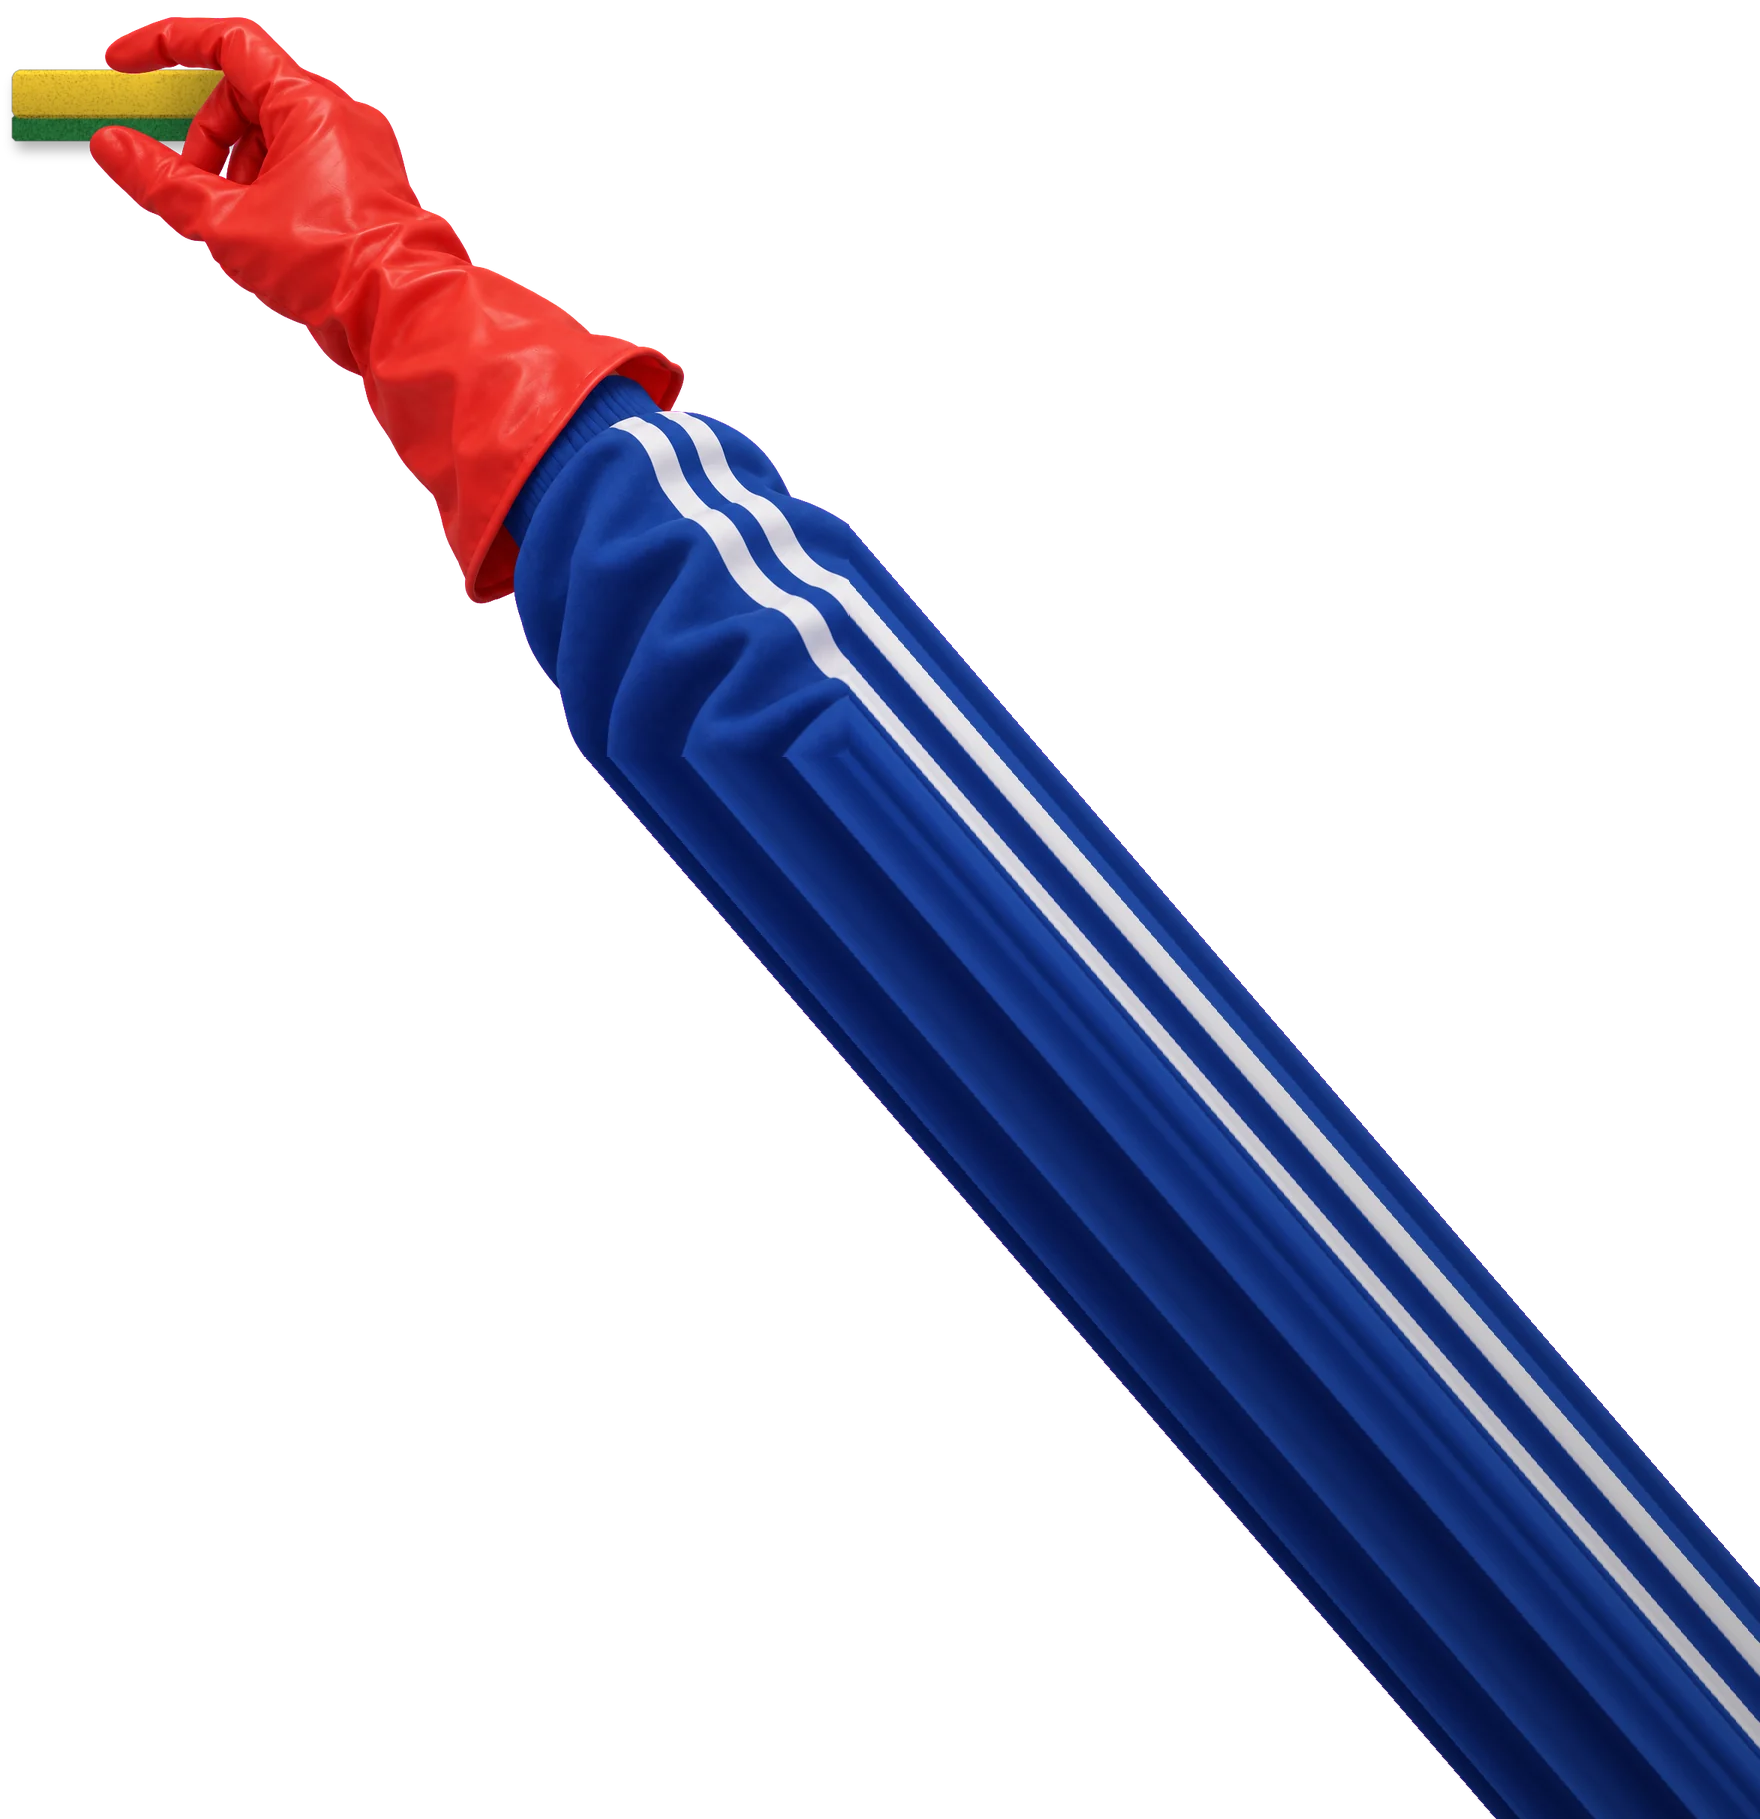
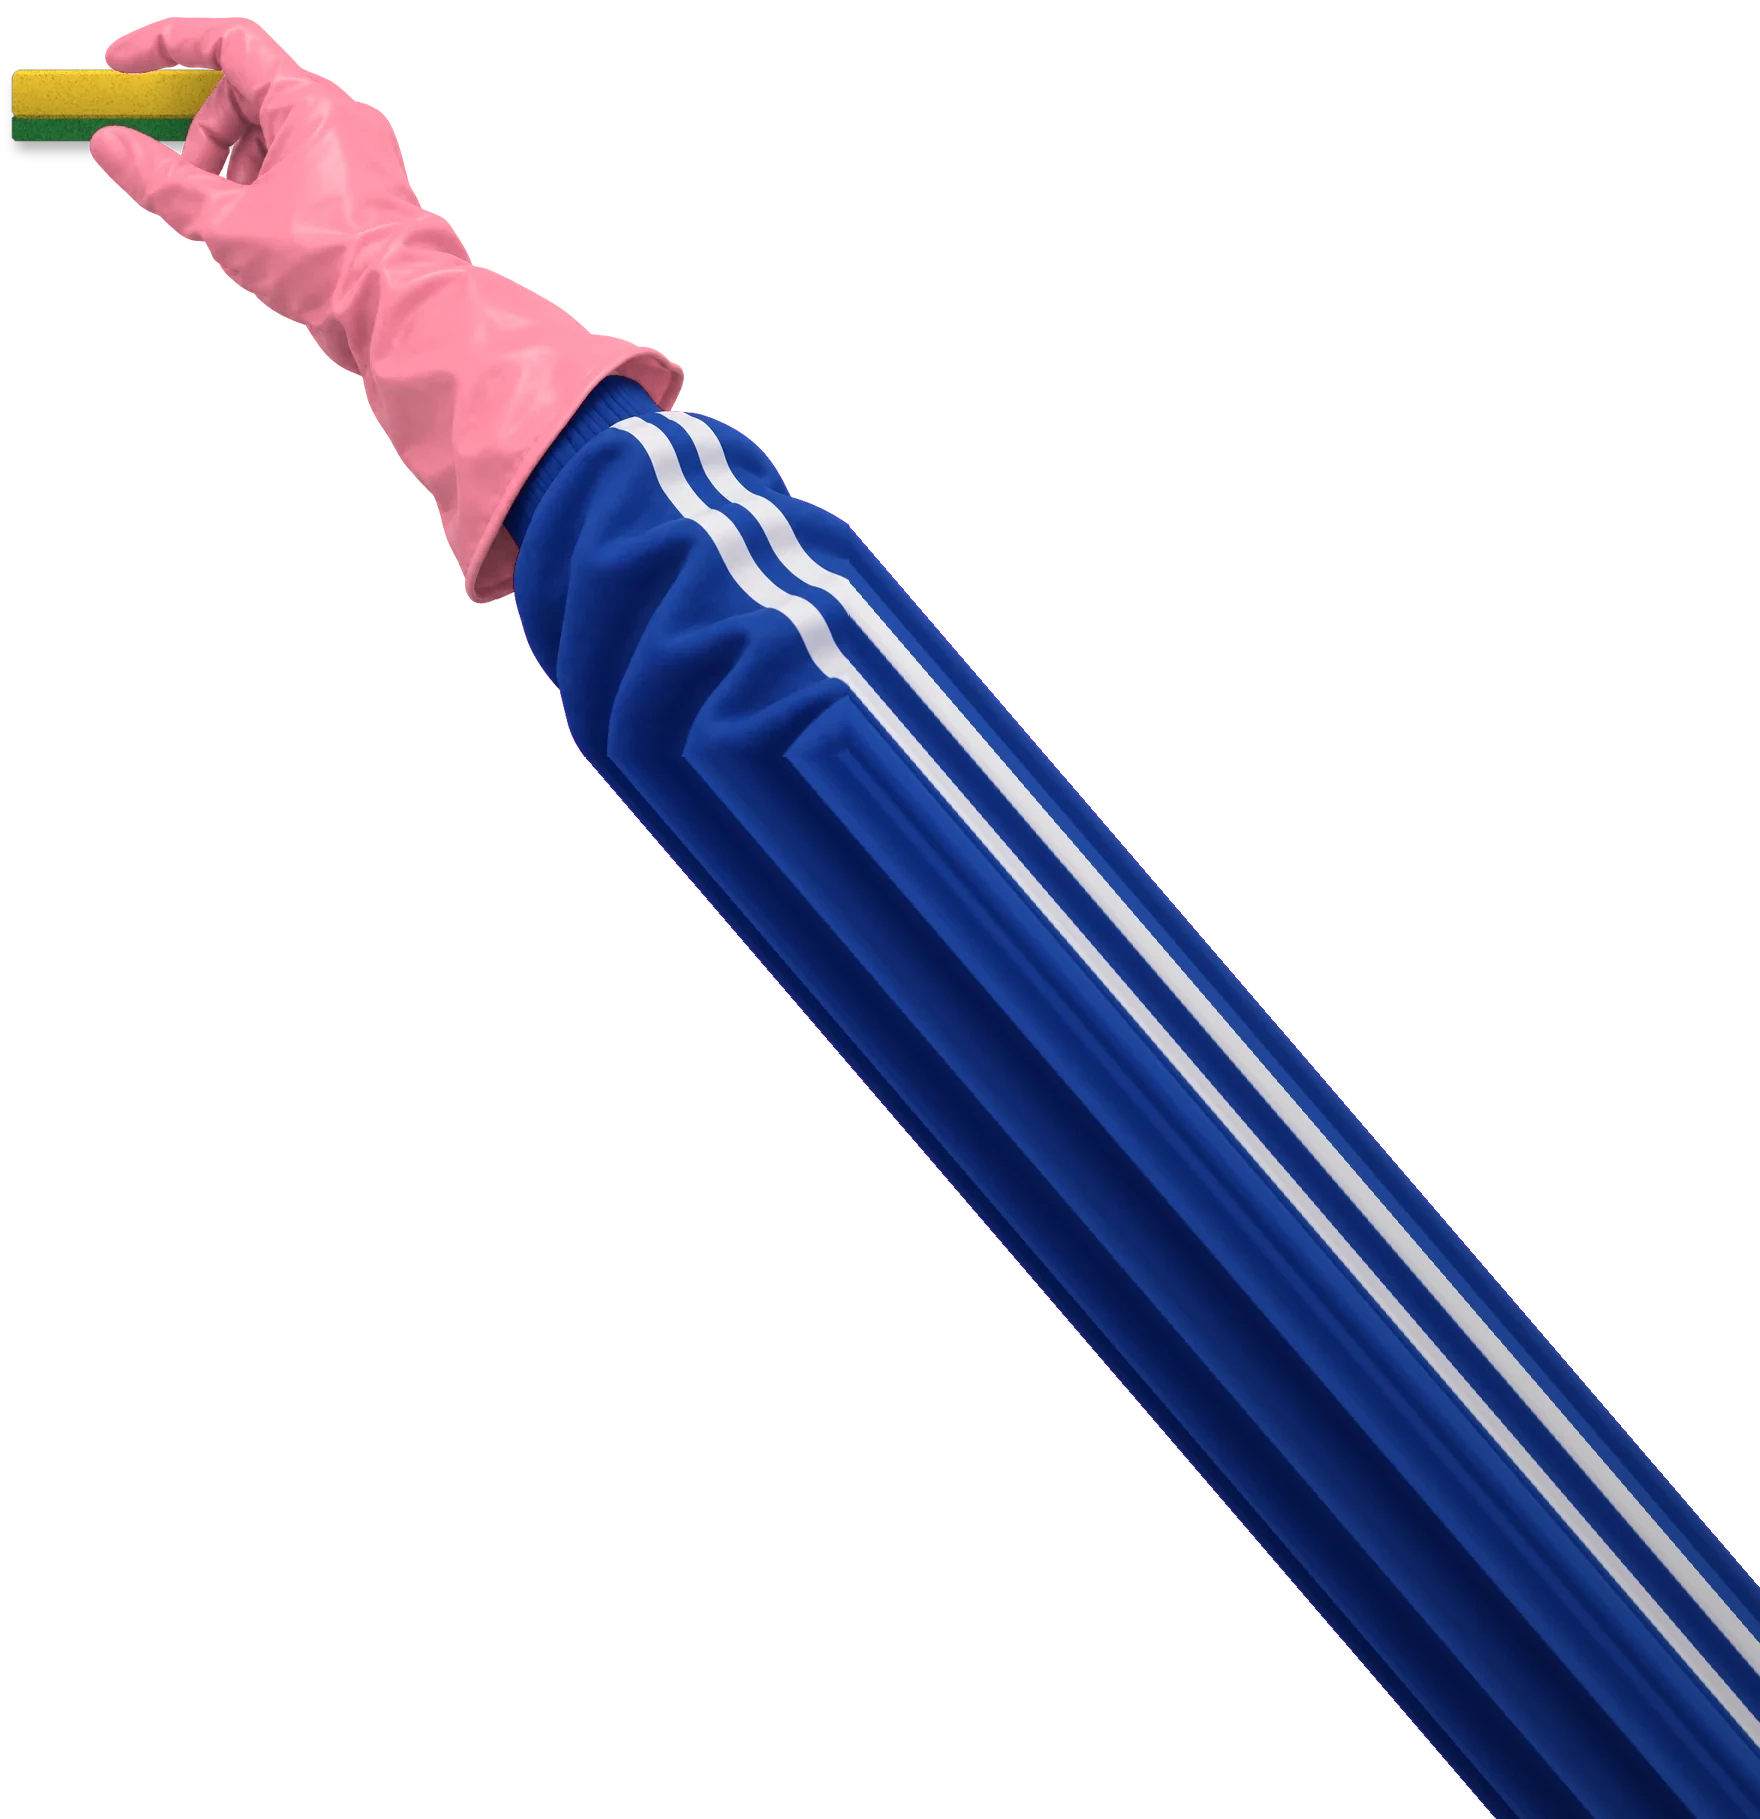
고시원 총무: 고무장갑을 분홍으로 — 손 그림 6장은 빨간 장갑 부분만 색을 돌리고(추리닝·수세미·칼 그대로), 못에 걸린 3D 장갑도 같은 색 (사장님 10/5 "고무장갑을 핑크로 바꿔줘")

Changed region(s): [[0.0312, 0.0, 0.4062, 0.3386]]

diff --git a/games/gosiwon/play/js/hands.js b/games/gosiwon/play/js/hands.js
@@ -4,7 +4,7 @@ GS.hands = (function () {
 var T = THREE, PI = Math.PI, scene = new T.Scene(), cam = new T.PerspectiveCamera(44, 1, 0.02, 5);
 var offT = 0, R, L, Rw, armW, armR, ringR, sponge, spongeW, wscene, knife, boxes = {}, has = false, carry = null, tool = null, wearT = 1, jabT = 1, clock = 0, asp = 1;
 var sleeveMat = new T.MeshLambertMaterial({ color: 0x7d8597, side: T.DoubleSide });   // 회색 츄리닝 소매
-var mat = new T.MeshPhongMaterial({ color: 0xcc1017, shininess: 40, specular: 0xe08c8c, side: T.DoubleSide });
+var mat = new T.MeshPhongMaterial({ color: 0xff9ab5, shininess: 40, specular: 0xffdce6, side: T.DoubleSide });   // 분홍 고무장갑(10/5 사장님 "고무장갑을 핑크로", 그림 손과 같은 색)
 function M(g, x, y, z, rx, ry, rz, sx, sy, sz, m) { var o = new T.Mesh(g, m || mat); o.position.set(x, y, z); o.rotation.set(rx || 0, ry || 0, rz || 0); o.scale.set(sx || 1, sy || 1, sz || 1); return o; }
 function finger(x, z, len, r, spread, curl) {               // 세 마디, 마디마다 공을 끼워 이음새가 안 보이게
   var root = new T.Group(), cur = root, i; root.position.set(x, -0.002, z); root.rotation.y = spread; root.rotation.x = curl[0];
@@ -70,7 +70,7 @@ function picInit() {
       tail.style.left = ((sp.tail[0] - sp.tail[2] / 2) / sp.fw * 100) + '%'; tail.style.top = (sp.tail[1] / sp.fh * 100) + '%'; tail.style.width = (sp.tail[2] / sp.fw * 100) + '%';
       inn.appendChild(tail);
     }
-    im.src = 'assets/' + a[1] + '.webp?v=2'; im.alt = ''; im.draggable = false; im.style.cssText = 'position:absolute;left:0;top:0;width:100%;height:100%;user-select:none';
+    im.src = 'assets/' + a[1] + '.webp?v=3'; im.alt = ''; im.draggable = false; im.style.cssText = 'position:absolute;left:0;top:0;width:100%;height:100%;user-select:none';
     inn.appendChild(im); box.appendChild(inn); layer.appendChild(box); pics[a[0]] = box; box.sp = sp;
     if (a[0] === 'C') {                                                                  // 두 손 그림은 왼팔·오른팔 반쪽씩 따로 두고 사이를 벌린다(10/5 "양손 사이를 벌려서")
       box.style.overflow = 'hidden'; inn.style.width = '200%';

diff --git a/games/gosiwon/play/index.html b/games/gosiwon/play/index.html
@@ -276,7 +276,7 @@ body.en #tasks div{overflow:hidden}
 <script src="lib/three.min.js"></script>
 <script src="js/core.js?v=2"></script>
 <script src="js/world.js?v=8"></script>
-<script src="js/hands.js?v=39"></script>
+<script src="js/hands.js?v=40"></script>
 <script src="assets/kimchi-tex.js?v=1"></script>
 <script src="js/chores.js?v=21"></script>
 <script src="js/loot.js?v=8"></script>
